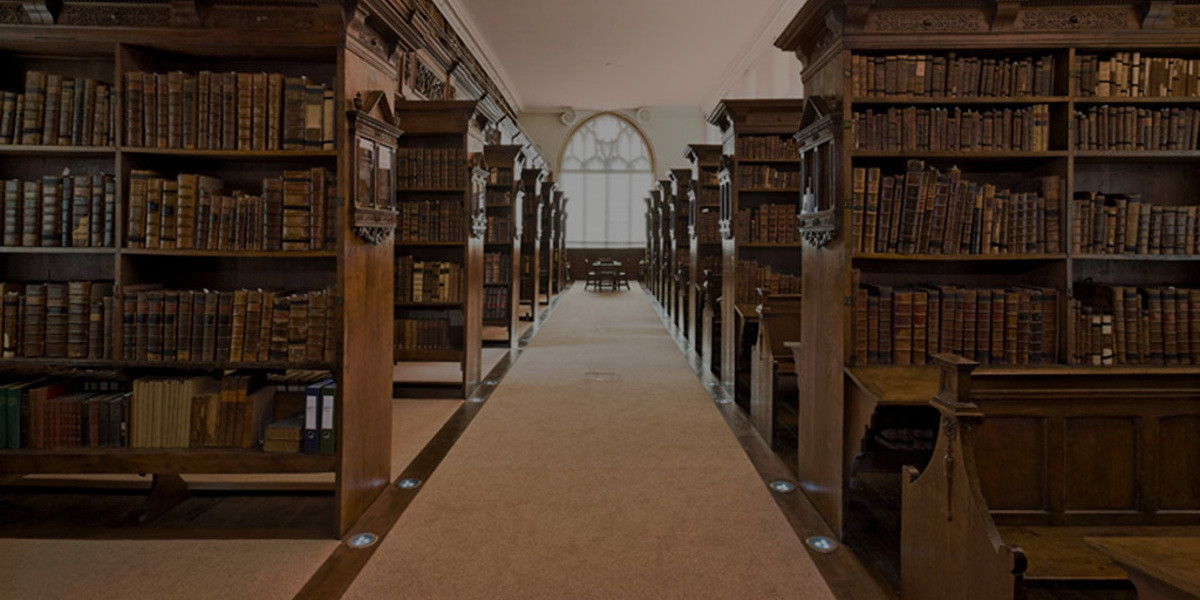
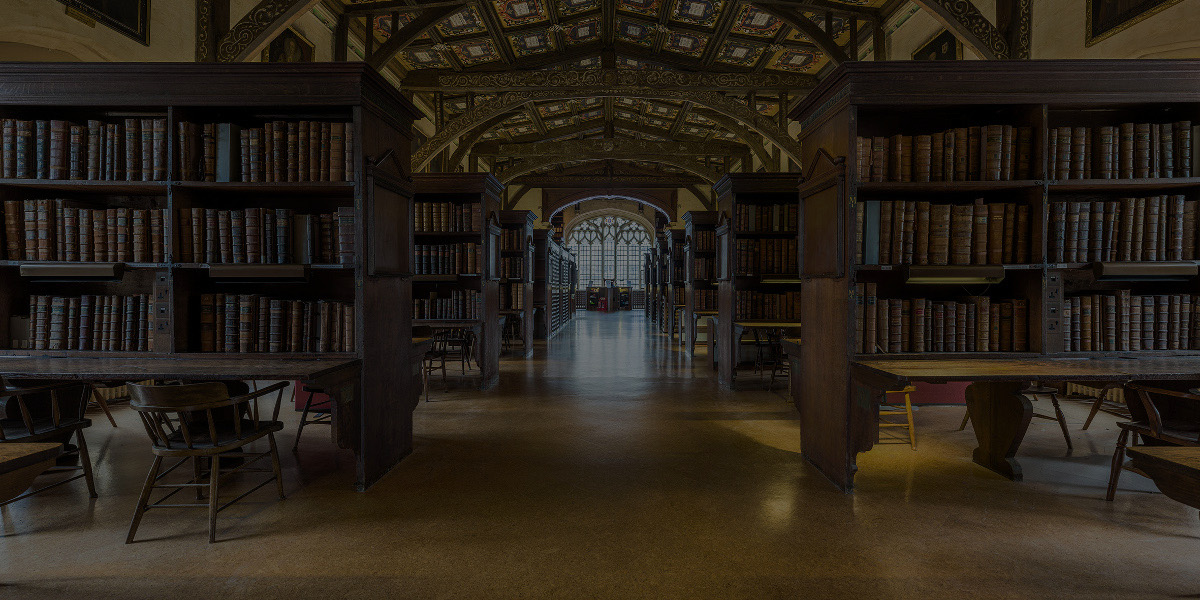
Chapter 9 Library Start
Chapter 9 Library Start

diff --git a/C009_Library/Library/Script.js b/C009_Library/Library/Script.js
@@ -11,13 +11,52 @@ function C009_Library_Library_Load() {
 
 }
 
+// Draw the navigation arrows
+function C009_Library_Library_Navigation(ctx, Zone, Direction, X, Y) {
+	if (C009_Library_Library_CurrentZone == Zone) {
+		var Active = false;
+		if ((MouseX >= X) && (MouseX <= X + 200) && (MouseY >= Y) && (MouseY <= Y + 200)) Active = true;
+		if ((Direction == "Up") && Active) DrawImage(ctx, Icons.Navigation.ArrowUpActive, X, Y);
+		if ((Direction == "Up") && !Active) DrawImage(ctx, Icons.Navigation.ArrowUpInactive, X, Y);
+		if ((Direction == "Down") && Active) DrawImage(ctx, Icons.Navigation.ArrowDownActive, X, Y);
+		if ((Direction == "Down") && !Active) DrawImage(ctx, Icons.Navigation.ArrowDownInactive, X, Y);
+		if ((Direction == "Left") && Active) DrawImage(ctx, Icons.Navigation.ArrowLeftActive, X, Y);
+		if ((Direction == "Left") && !Active) DrawImage(ctx, Icons.Navigation.ArrowLeftInactive, X, Y);
+		if ((Direction == "Right") && Active) DrawImage(ctx, Icons.Navigation.ArrowRightActive, X, Y);
+		if ((Direction == "Right") && !Active) DrawImage(ctx, Icons.Navigation.ArrowRightInactive, X, Y);
+	}
+}
+
 // Chapter 9 - Library Run
 function C009_Library_Library_Run() {
 
 	// Draw the background image 
 	var ctx = document.getElementById("MainCanvas").getContext("2d");
 	DrawImage(ctx, CurrentChapter + "/" + CurrentScreen + "/" + C009_Library_Library_CurrentZone + ".jpg", 0, 0);
+	
+	// Draw the navigation arrows
+	C009_Library_Library_Navigation(ctx, "001", "Left", 0, 400);
+	C009_Library_Library_Navigation(ctx, "001", "Up", 500, 350);
+	C009_Library_Library_Navigation(ctx, "001", "Right", 1000, 400);
+	C009_Library_Library_Navigation(ctx, "002", "Up", 500, 200);
+	C009_Library_Library_Navigation(ctx, "002", "Down", 500, 400);
+	C009_Library_Library_Navigation(ctx, "002", "Left", 0, 400);
+	C009_Library_Library_Navigation(ctx, "002", "Right", 1000, 400);
+	C009_Library_Library_Navigation(ctx, "003", "Down", 500, 400);
 
+}
+
+// Chapter 9 - Library Enter Search Mode
+function C009_Library_Library_StartSearch(SearchStage) {
+	C009_Library_Search_CurrentStage = SearchStage;
+	SetScene(CurrentChapter, "Search");
+	return false;
+}
+
+// Chapter 9 - Library Enter New Zone
+function C009_Library_Library_EnterZone(NewZone) {
+	C009_Library_Library_CurrentZone = NewZone;
+	return false;
 }
 
 // Chapter 9 - Library Click
@@ -26,14 +65,19 @@ function C009_Library_Library_Click() {
 	// Checks if the user clicks on any regular item
 	InventoryClick(GetClickedInventory(), "C009_Library", "Library");
 	
-	// In Zone 1, the player can go to 2, 3 or 4
-	if ((C009_Library_Library_CurrentZone == "001") && (MouseX >= 0) && (MouseX <= 200) && (MouseY >= 400) && (MouseY <= 600)) C009_Library_Library_CurrentZone = "002";
-	if ((C009_Library_Library_CurrentZone == "001") && (MouseX >= 1000) && (MouseX <= 1200) && (MouseY >= 400) && (MouseY <= 600)) C009_Library_Library_CurrentZone = "003";
-	if ((C009_Library_Library_CurrentZone == "001") && (MouseX >= 500) && (MouseX <= 700) && (MouseY >= 200) && (MouseY <= 400)) C009_Library_Library_CurrentZone = "004";
+	// In Zone 1, the player can go to zone 2 or 3 or search once
+	var E = true;
+	if (E && (C009_Library_Library_CurrentZone == "001") && (MouseX >= 0) && (MouseX <= 200) && (MouseY >= 400) && (MouseY <= 600)) E = C009_Library_Library_StartSearch(10);
+	if (E && (C009_Library_Library_CurrentZone == "001") && (MouseX >= 500) && (MouseX <= 700) && (MouseY >= 350) && (MouseY <= 550)) E = C009_Library_Library_EnterZone("002");
+	if (E && (C009_Library_Library_CurrentZone == "001") && (MouseX >= 1000) && (MouseX <= 1200) && (MouseY >= 400) && (MouseY <= 600)) E = C009_Library_Library_EnterZone("003");
 
-	// In Zone 2, the player can go to 1 or search the books
-	if ((C009_Library_Library_CurrentZone == "002") && (MouseX >= 500) && (MouseX <= 700) && (MouseY >= 400) && (MouseY <= 600)) C009_Library_Library_CurrentZone = "001";
-	if ((C009_Library_Library_CurrentZone == "002") && (MouseX >= 0) && (MouseX <= 300) && (MouseY >= 50) && (MouseY <= 350)) SetScene(CurrentChapter, "Search" + C009_Library_Library_CurrentZone + "A");
-	if ((C009_Library_Library_CurrentZone == "002") && (MouseX >= 900) && (MouseX <= 1200) && (MouseY >= 50) && (MouseY <= 350)) SetScene(CurrentChapter, "Search" + C009_Library_Library_CurrentZone + "B");
+	// In Zone 2, the player can go to zone 1, 4 or 5
+	if (E && (C009_Library_Library_CurrentZone == "002") && (MouseX >= 500) && (MouseX <= 700) && (MouseY >= 400) && (MouseY <= 600)) E = C009_Library_Library_EnterZone("001");
+
+	// In Zone 3, the player can to to zone 1 or search twice
+	if (E && (C009_Library_Library_CurrentZone == "003") && (MouseX >= 500) && (MouseX <= 700) && (MouseY >= 400) && (MouseY <= 600)) E = C009_Library_Library_EnterZone("001");
+	if (E && (C009_Library_Library_CurrentZone == "003") && (MouseX >= 0) && (MouseX <= 400) && (MouseY >= 100) && (MouseY <= 500)) E = C009_Library_Library_StartSearch(30);
+	if (E && (C009_Library_Library_CurrentZone == "003") && (MouseX >= 450) && (MouseX <= 750) && (MouseY >= 100) && (MouseY <= 400)) E = C009_Library_Library_StartSearch(31);
+	if (E && (C009_Library_Library_CurrentZone == "003") && (MouseX >= 800) && (MouseX <= 1200) && (MouseY >= 100) && (MouseY <= 500)) E = C009_Library_Library_StartSearch(32);
 
 }

diff --git a/C009_Library/Search/Script.js b/C009_Library/Search/Script.js
@@ -1,0 +1,67 @@
+var C009_Library_Search_CurrentStage = 0;
+var C009_Library_Search_SearchCounterDone = false;
+var C009_Library_Search_CanLearnRopeMastery = true;
+var C009_Library_Search_MasturbateCount = 0;
+var C009_Library_Search_IntroText = "";
+
+// Chapter 9 Library - Search Area Load
+function C009_Library_Search_Load() {
+	LeaveIcon = "Leave";
+	LeaveScreen = "Library";
+	LoadInteractions();
+	if (C009_Library_Search_IntroText != "") OverridenIntroText = C009_Library_Search_IntroText;
+	C009_Library_Search_IntroText = "";
+}
+
+// Chapter 9 Library - Search Area Run
+function C009_Library_Search_Run() {
+	BuildInteraction(C009_Library_Search_CurrentStage);
+}
+
+// Chapter 9 Library - Search Area Click
+function C009_Library_Search_Click() {	
+
+	// Regular interactions
+	ClickInteraction(C009_Library_Search_CurrentStage);
+
+	// Can open the player screen from here
+	var ClickInv = GetClickedInventory();
+	if (ClickInv != "") {
+		C009_Library_Search_IntroText = OverridenIntroText;
+		InventoryClick(ClickInv, CurrentChapter, CurrentScreen);
+	}
+
+}
+
+// Chapter 9 - Library Search behind the counter
+function C009_Library_Search_SearchCounter() {
+	if (!C009_Library_Search_SearchCounterDone) {
+		OverridenIntroText = GetText("FindItem");
+		PlayerAddRandomItem();
+		C009_Library_Search_SearchCounterDone = true;
+	}
+}
+
+// Chapter 9 - Library Masturbate, if the player has the egg, she can climax multiple times, if not, only 1 time
+function C009_Library_Search_Masturbate() {
+	if (Common_PlayerChaste) {
+		OverridenIntroText = GetText("CannotMasturbate");
+	} else {
+		C009_Library_Search_MasturbateCount++;
+		if (C009_Library_Search_MasturbateCount == 3) OverridenIntroText = GetText("Orgasm");
+		if ((C009_Library_Search_MasturbateCount >= 4) && !PlayerHasLockedInventory("VibratingEgg")) OverridenIntroText = GetText("OrgasmEnough");
+		if ((C009_Library_Search_MasturbateCount >= 4) && PlayerHasLockedInventory("VibratingEgg")) {
+			OverridenIntroText = GetText("OrgasmRepeat");
+			C009_Library_Search_MasturbateCount = 0;
+		}
+	}
+}
+
+// Chapter 9 - Library Learn Rope Mastery, the player needs 15 minutes
+function C009_Library_Search_LearnRopeMastery() {
+	if (CurrentTime <= 15 * 60 * 60 * 1000) {
+		PlayerAddSkill("RopeMastery", 1);
+		CurrentTime = CurrentTime + 0.25 * 60 * 60 * 1000;
+		C009_Library_Search_CanLearnRopeMastery = false;
+	} else OverridenIntroText = GetText("TrainRopeMasteryNoTime");
+}

diff --git a/C999_Common/VibratingEgg/Script.js b/C999_Common/VibratingEgg/Script.js
@@ -42,12 +42,26 @@ function C999_Common_VibratingEgg_Insert() {
 		} else {
 			PlayerRemoveInventory("VibratingEgg", 1);
 			PlayerLockInventory("VibratingEgg");
-			C999_Common_VibratingEgg_CurrentStage = 10;			
+			C999_Common_VibratingEgg_CurrentStage = 10;
 			C999_Common_VibratingEgg_HasLooseEgg = PlayerHasInventory("VibratingEgg");
 		}		
 	} else {
 		OverridenIntroText = GetText("ChastityBelt");
 	}
+}
+
+// Chapter Common - Egg Contract, the egg can be removed if the player isn't chaste and has "Sports" at level 1 or more
+function C999_Common_VibratingEgg_Contract() {
+	if (!Common_PlayerChaste) {
+		if (PlayerGetSkillLevel("Sports") >= 1) {
+			PlayerUnlockInventory("VibratingEgg");
+			PlayerAddInventory("VibratingEgg", 1);
+			C999_Common_VibratingEgg_CurrentStage = 0;
+			C999_Common_VibratingEgg_HasLooseEgg = true;
+			OverridenIntroText = GetText("ContractSuccess");
+		}
+	}
+	else OverridenIntroText = GetText("ContractBelt");
 }
 
 // Chapter Common - Show the item image

diff --git a/Drawing.js b/Drawing.js
@@ -15,6 +15,17 @@ var Icons = new function () {
         this.ElbowBound = GetIconPath(this.Path, "ElbowBound");
         this.KneeBound = GetIconPath(this.Path, "KneeBound");
     }(this);
+    this.Navigation = new function (parent) {
+        this.Path = GetPath("Icons", "Navigation");
+        this.ArrowLeftActive = GetIconPath(this.Path, "ArrowLeftActive");
+        this.ArrowRightActive = GetIconPath(this.Path, "ArrowRightActive");
+        this.ArrowUpActive = GetIconPath(this.Path, "ArrowUpActive");
+        this.ArrowDownActive = GetIconPath(this.Path, "ArrowDownActive");
+        this.ArrowLeftInactive = GetIconPath(this.Path, "ArrowLeftInactive");
+        this.ArrowRightInactive = GetIconPath(this.Path, "ArrowRightInactive");
+        this.ArrowUpInactive = GetIconPath(this.Path, "ArrowUpInactive");
+        this.ArrowDownInactive = GetIconPath(this.Path, "ArrowDownInactive");
+    }(this);
 }();
 
 // Returns the image file or build it from the source

diff --git a/index.html b/index.html
@@ -97,6 +97,7 @@
 <script src="C008_DramaClass/Outro/Script.js"></script>
 <script src="C009_Library/Intro/Script.js"></script>
 <script src="C009_Library/Library/Script.js"></script>
+<script src="C009_Library/Search/Script.js"></script>
 <script src="C009_Library/Outro/Script.js"></script>
 <script src="C010_Revenge/Intro/Script.js"></script>
 <script src="C010_Revenge/AmandaSarah/Script.js"></script>
